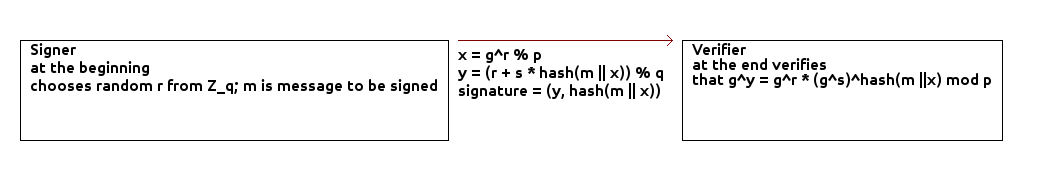
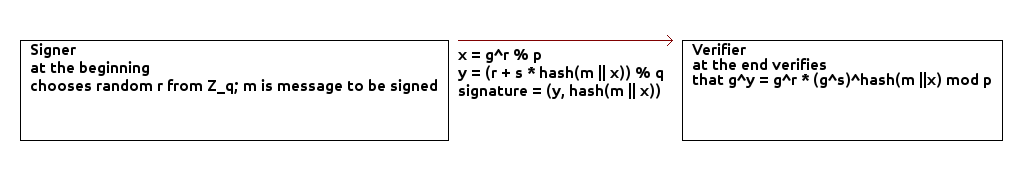
fix

diff --git a/test/schnorr_sign.py b/test/schnorr_sign.py
@@ -1,6 +1,6 @@
 from cdiagrams.protocol2 import Protocol2
 
-protocol = Protocol2(1050, 170)
+protocol = Protocol2(1020, 170)
 parties = []
 parties.append("Signer \n at the beginning \n chooses random r from Z_q; m is message to be signed")
 parties.append("Verifier \n at the end verifies \n that g^y = g^r * (g^s)^hash(m ||x) mod p")

diff --git a/test/schnorr_protocol.py b/test/schnorr_protocol.py
@@ -1,6 +1,6 @@
 from cdiagrams.protocol2 import Protocol2
 
-protocol = Protocol2(900, 170)
+protocol = Protocol2(650, 170)
 parties = []
 parties.append("Prover \n at the beginning \n chooses random r from Z_q")
 parties.append("Verifier \n at the end verifies \n that g^y = g^r * (g^s)^c mod p")

diff --git a/readme.md b/readme.md
@@ -7,7 +7,7 @@ A tiny library for quickly drawing cryptograhic protocols and some other cryptog
 ```
 from cdiagrams.protocol2 import Protocol2
 
-protocol = Protocol2(900, 170)
+protocol = Protocol2(650, 170)
 parties = []
 parties.append("Prover \n at the beginning \n chooses random r from Z_q")
 parties.append("Verifier \n at the end verifies \n that g^y = g^r * (g^s)^c mod p")
@@ -28,7 +28,7 @@ protocol.save("../img/schnorr_protocol.png"
 ```
 from cdiagrams.protocol2 import Protocol2
 
-protocol = Protocol2(1050, 170)
+protocol = Protocol2(1020, 170)
 parties = []
 parties.append("Signer \n at the beginning \n chooses random r from Z_q; m is message to be signed")
 parties.append("Verifier \n at the end verifies \n that g^y = g^r * (g^s)^hash(m ||x) mod p")
